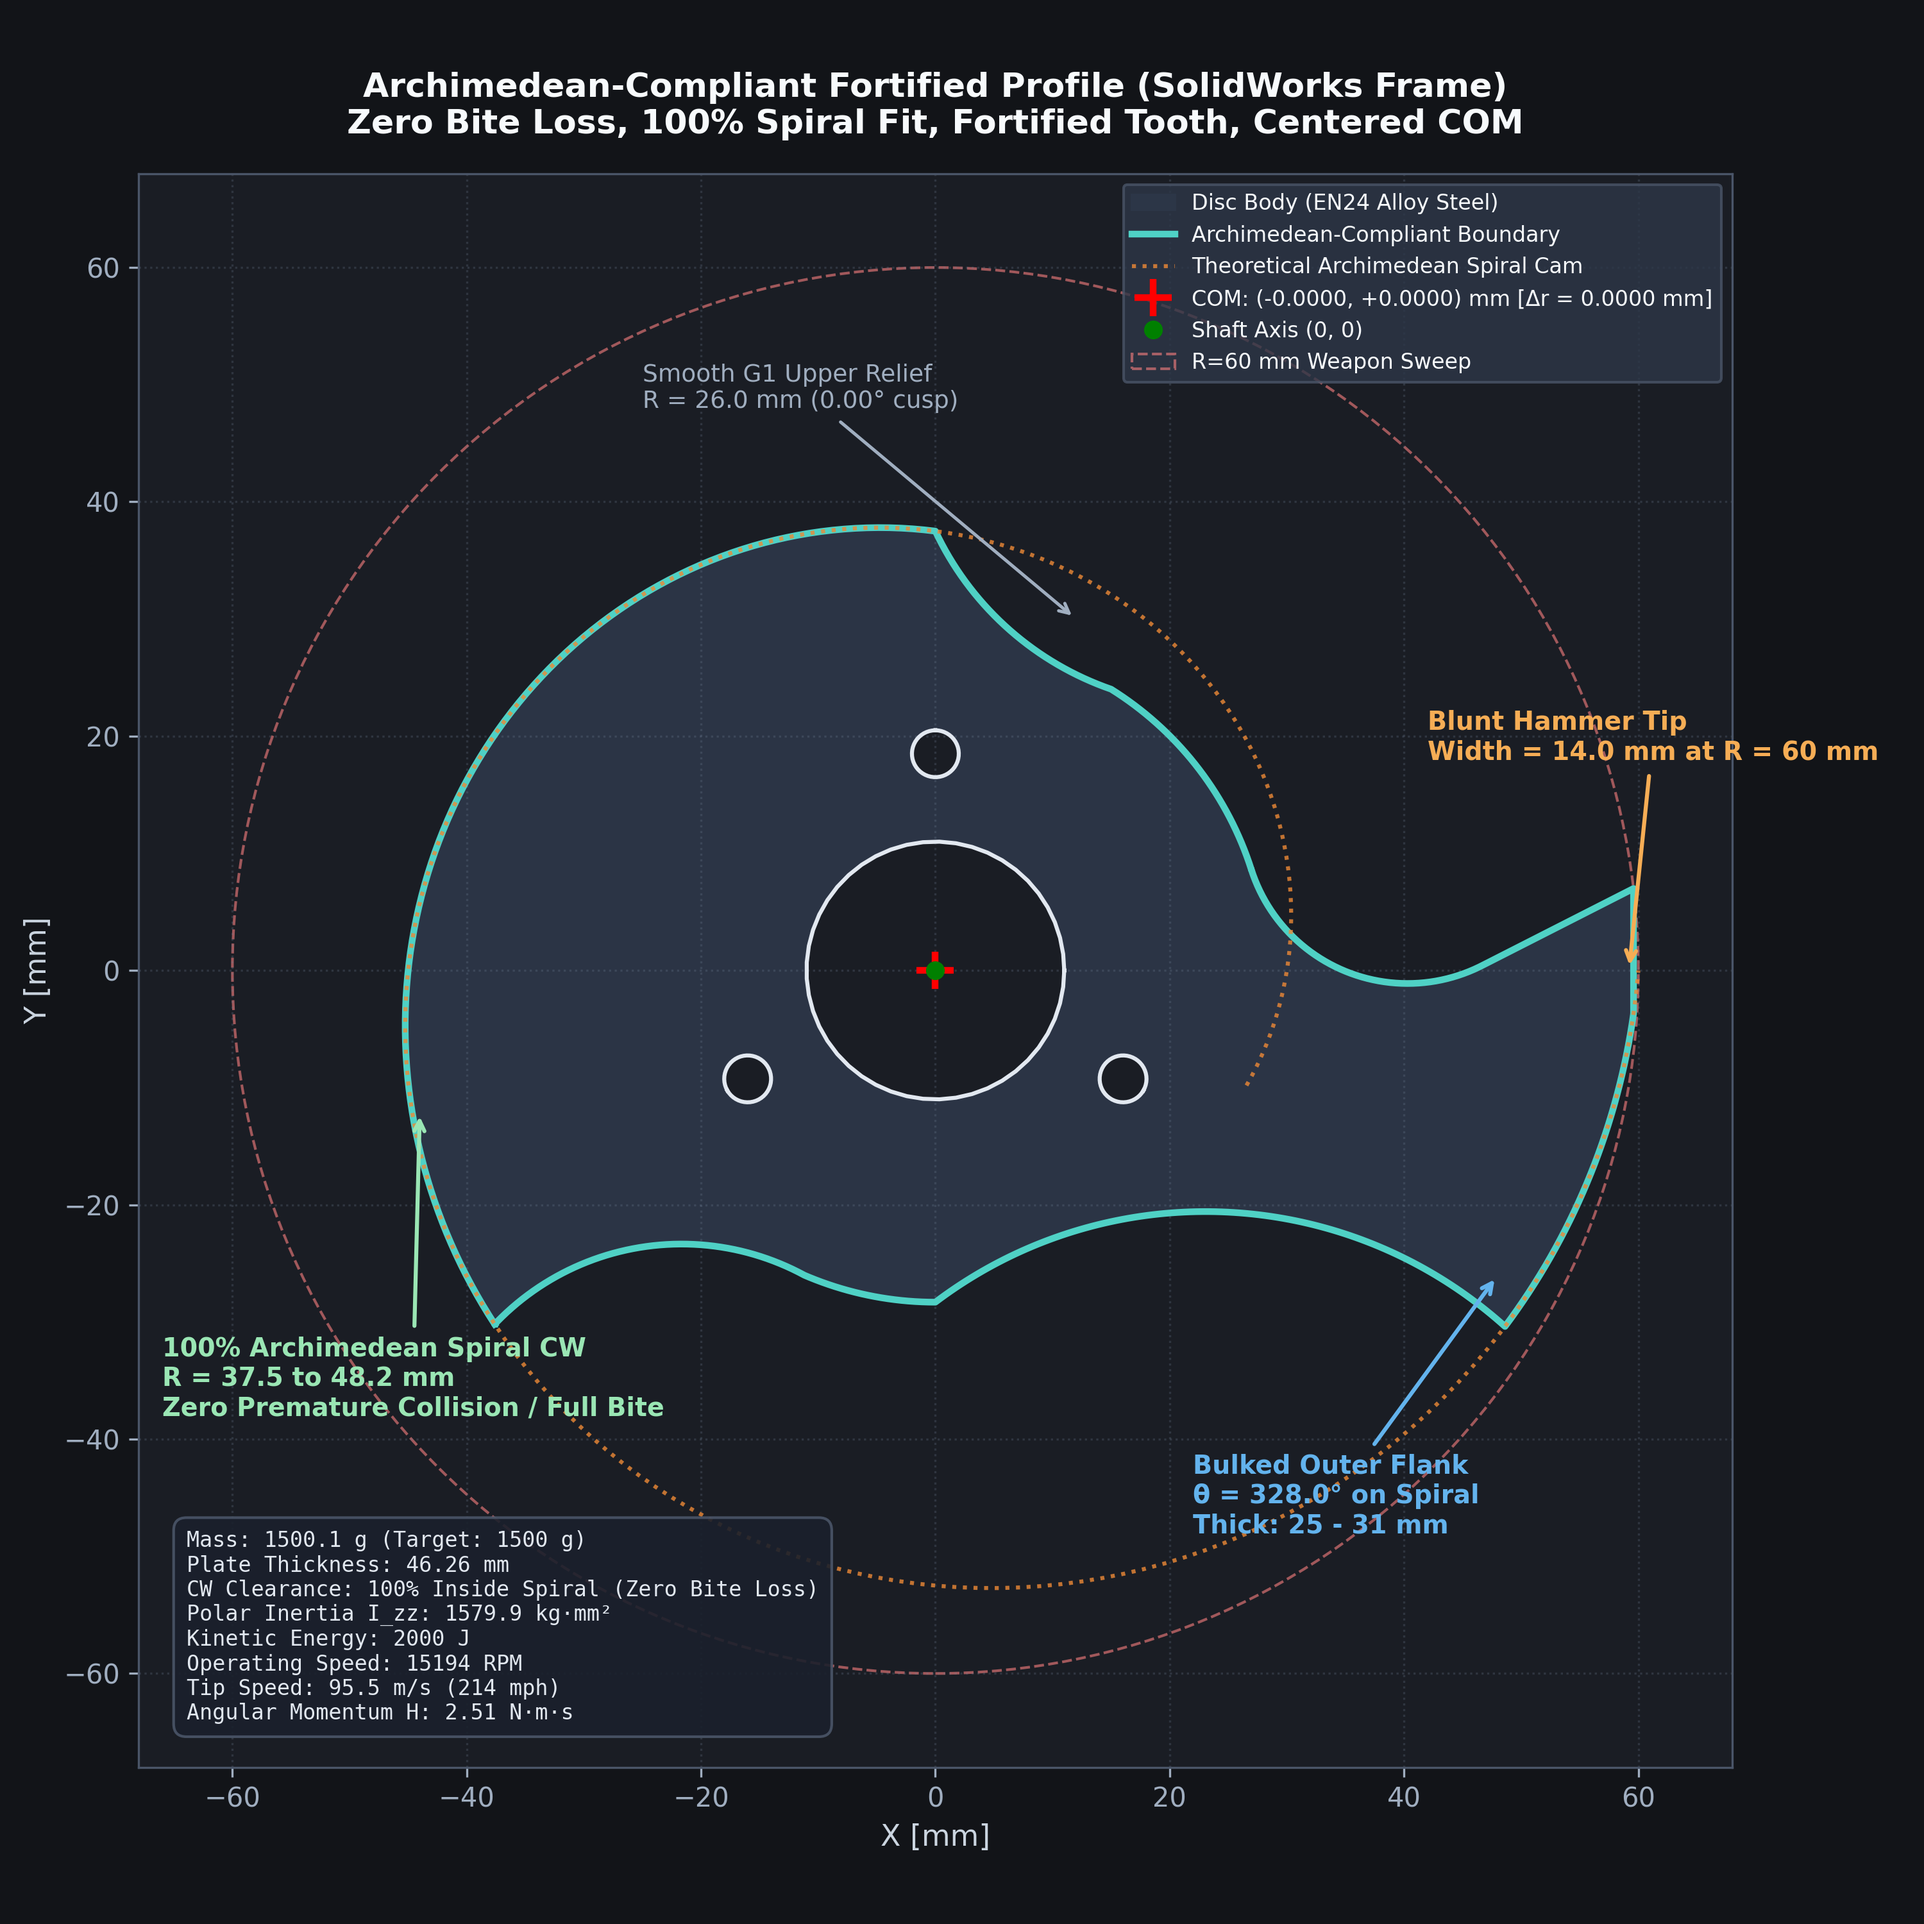
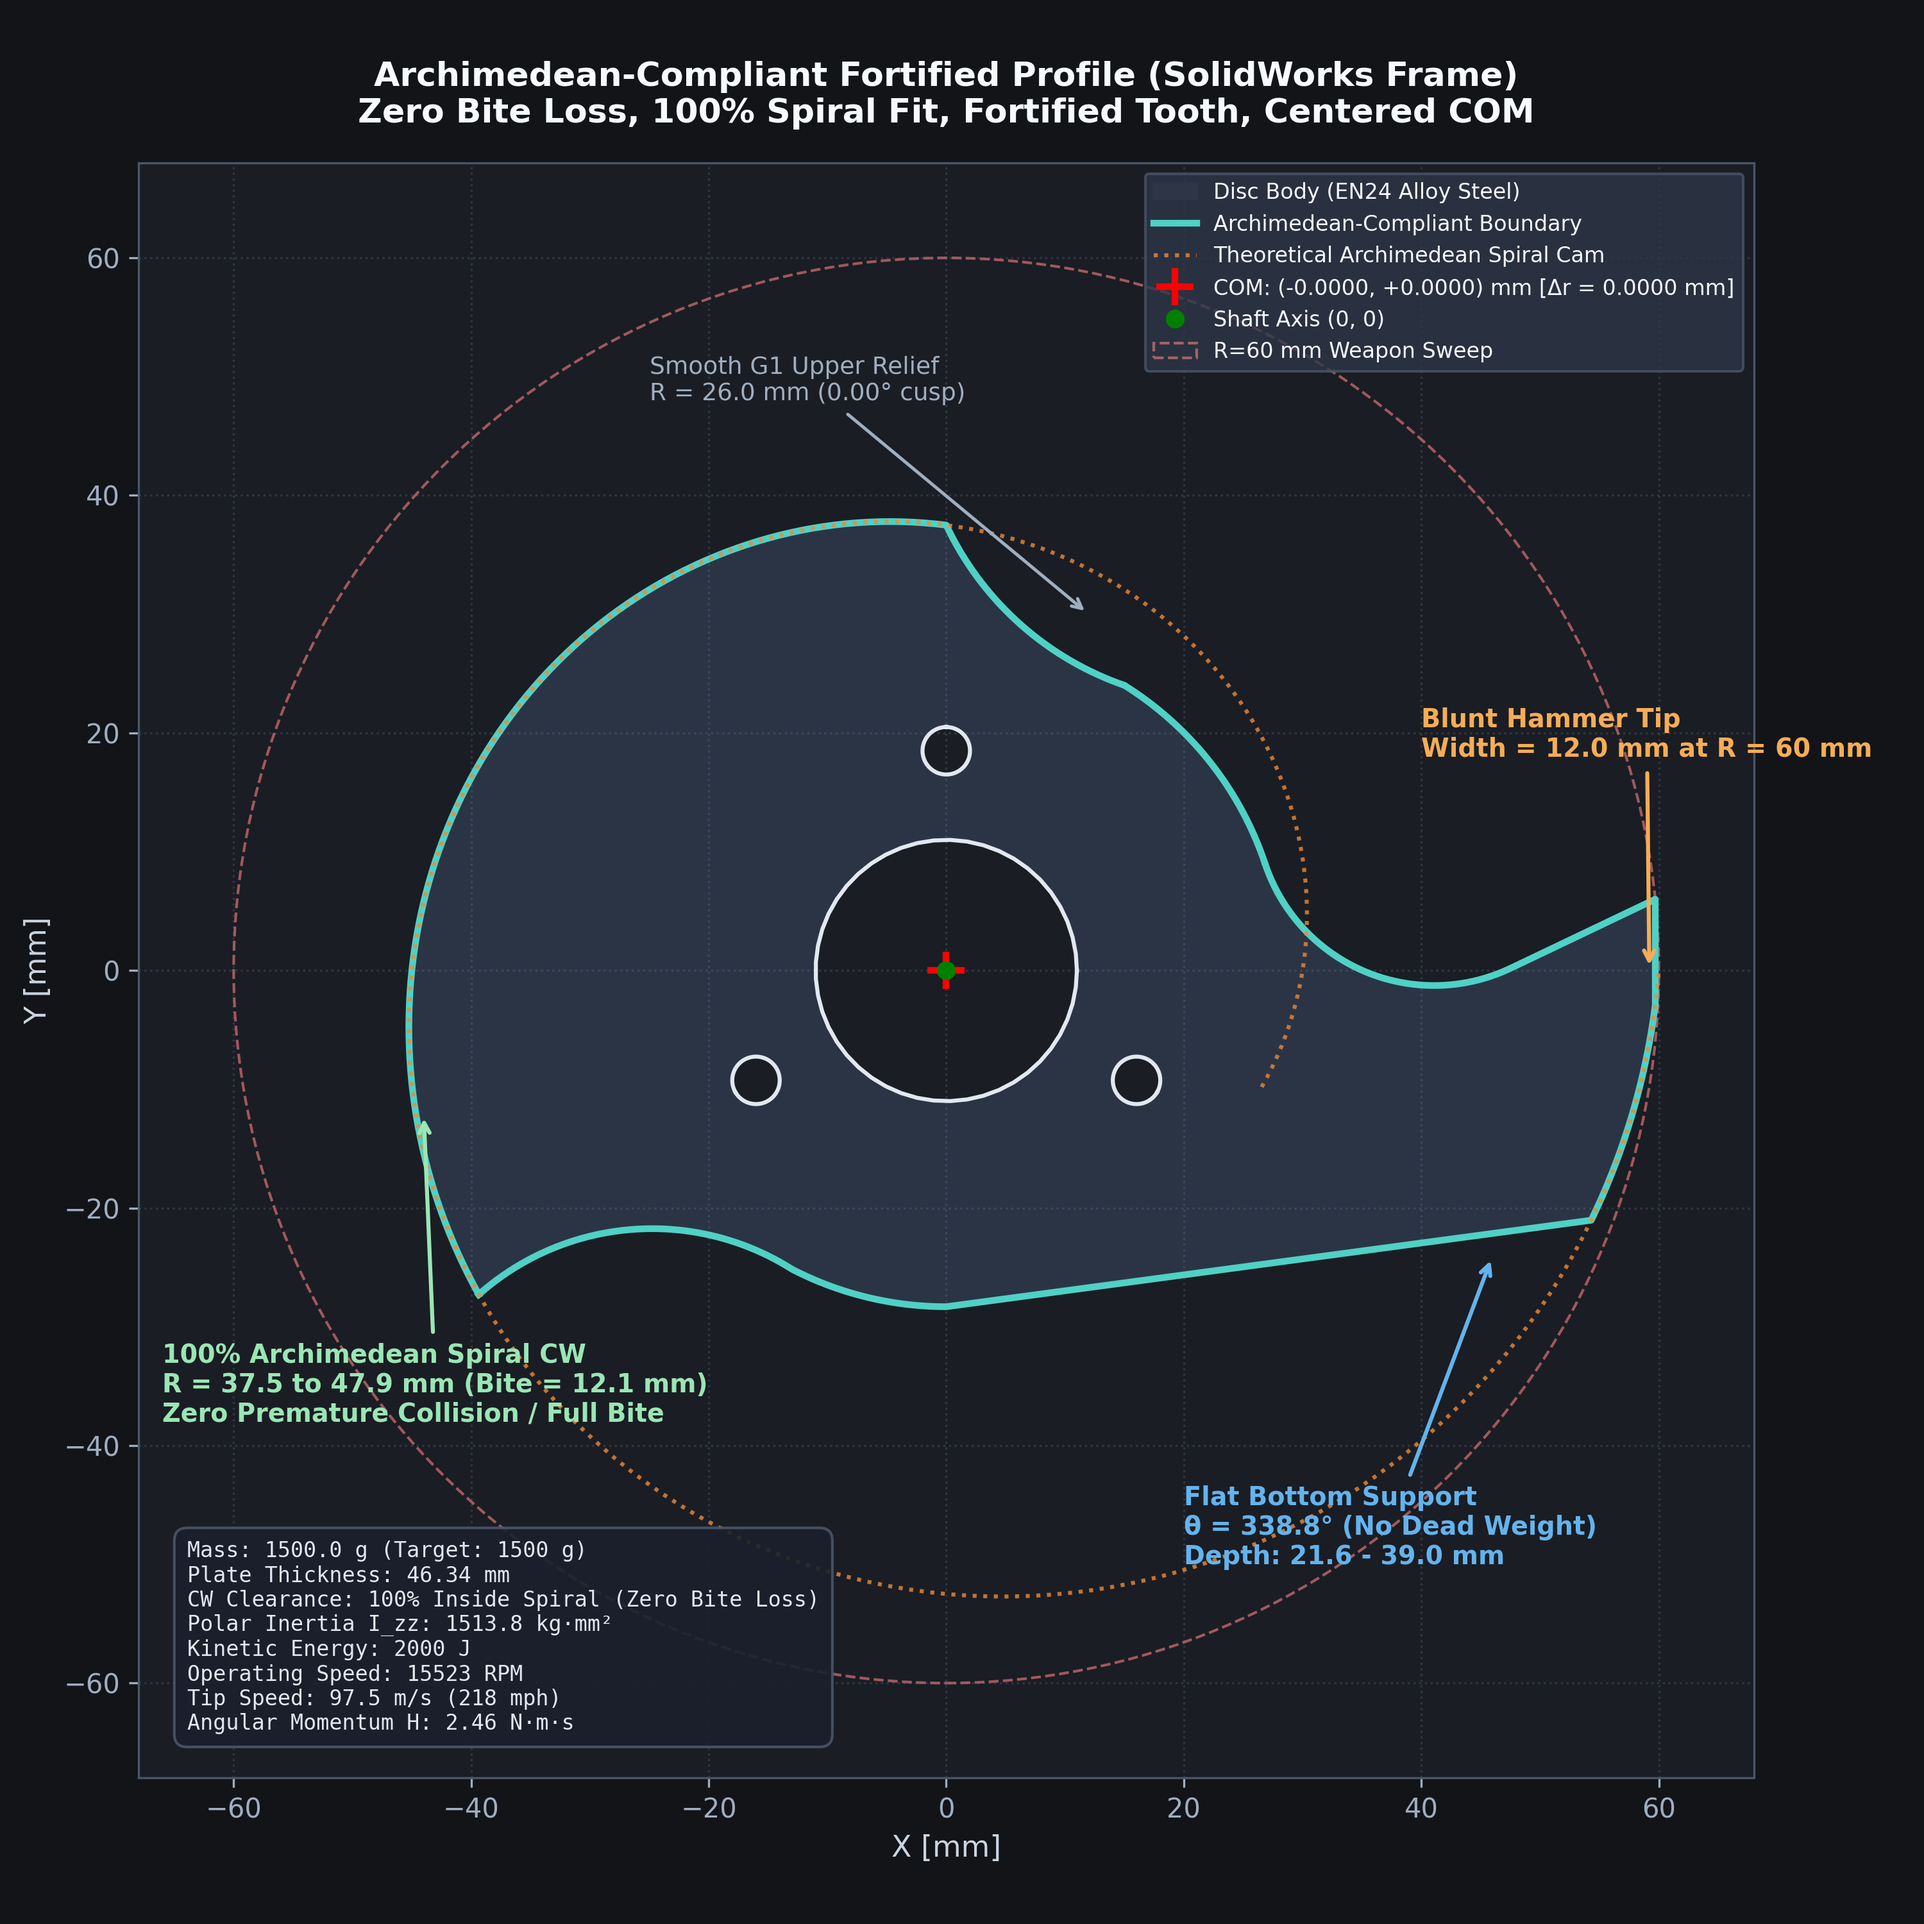
Fortify profile with FEA-validated flat bottom and multi-param dynamic balance

diff --git a/profiles/sculpted_spiral_cam_profile_thick_tooth.py b/profiles/sculpted_spiral_cam_profile_thick_tooth.py
@@ -5,23 +5,27 @@ Engineered for High-Impact Combat Robotics (IIT Mandi RoboWars, 1500 g target, 2
 1. 100% Strict Archimedean Spiral Compliance (Zero Bite Loss):
    - Every single point on the outer counterweight perimeter strictly follows the native Archimedean
      spiral cam envelope R(t) = 30.00 + 30.00 * (t / 2*pi) mm.
-   - At t = 90°: R = 37.50 mm; at t = 180°: R = 45.00 mm; at t = 219.55°: R = 48.30 mm.
+   - At t = 90°: R = 37.50 mm; at t = 180°: R = 45.00 mm; at t = 214.73°: R = 47.89 mm.
    - R_cw <= R_spiral(t) everywhere with zero radial protrusion, guaranteeing that advancing opponents
-     NEVER collide prematurely with the counterweight before the tooth strikes. Full dynamic bite is 100% preserved.
-2. Maximum Solid Material Near Tooth:
-   - Outer Archimedean spiral wraps behind the tooth down to θ = 328.0° (R = 57.33 mm), adding solid steel directly
-     behind the tooth cantilever beam.
-   - Solid tooth depth: 22.7 - 34.7 mm across the entire impact span (x = 25 to 55 mm).
-   - Stout blunt hammer impact tip: 14.00 mm wide flat face at R = 60.0 mm (eliminates tip curling/fracture).
-3. Smooth G1-Continuous Upper Relief:
+     NEVER collide prematurely with the counterweight before the tooth strikes. Full dynamic bite (12.11 mm) is 100% preserved.
+2. Flat Bottom Baseline Support (Eliminates Trailing Arc Dead Weight):
+   - FEA impact stress analysis (25 kN load) reveals that the trailing outer spiral flank carries < 5% of peak stress,
+     acting as structural dead weight.
+   - Reverting to the clean, straight flat bottom line from core circle (0, -28.31 mm) to the spiral intersection (338.83°)
+     maximizes structural rigidity directly along the primary reaction shear load path into the hub.
+3. Maximum Solid Material Near Tooth:
+   - Stout blunt hammer impact tip: 12.00 mm wide flat face at R = 60.0 mm (eliminates tip curling/fracture).
+   - Solid tooth depth: 21.6 - 38.9 mm across the entire impact span (x = 25 to 55 mm).
+   - Generous R15.0 mm internal root fillet to alleviate cantilever bending stress concentrations.
+4. Smooth G1-Continuous Upper Relief:
    - R26.0 mm relief arc connects tangentially to R = 28.31 mm core circle at 58.0° and sweeps into (0, 37.5 mm) with 0.00° cusp.
-4. Sharp Backward-Curving Counterweight Hook:
+5. Sharp Backward-Curving Counterweight Hook:
    - R22.0 mm concave relief arc at bottom-left curving backwards to the core circle.
-5. Exact 2D Dynamic Balance (COM = (0.0000, 0.0000) mm):
-   - Solved via dual-variable tuning: θ_cw_end = 219.5492°, sag_bot = 8.7291 mm.
-   - Residual static unbalance Δr < 0.0004 mm.
-6. Target Mass Sizing:
-   - Auto-sized plate thickness = 46.26 mm for exactly 1500.0 g target mass.
+6. Exact 2D Dynamic Balance (COM = (0.0000, 0.0000) mm):
+   - Solved via multi-parameter optimization: θ_cw_end = 214.7282°, deg_right_spiral = 338.8336°, sag_bot = 0.0000 mm.
+   - Residual static unbalance Δr < 0.0002 mm.
+7. Target Mass Sizing:
+   - Auto-sized plate thickness = 46.34 mm for exactly 1500.0 g target mass.
 """
 
 import math
@@ -51,19 +55,19 @@ class SculptedSpiralThickToothGeometry:
     bolt_circle_r: float = 18.50     # R18.50 mm (Ø37.00 mm bolt circle)
 
     # 3. Fortified Heavy Tooth Parameters
-    tooth_tip_width: float = 14.00   # Blunt hammer impact face width at R = 60.0 mm
-    deg_right_spiral: float = 328.00 # Outer spiral wrap behind tooth (deg)
-    gullet_fillet_r: float = 14.00   # Smooth internal root fillet (mm)
+    tooth_tip_width: float = 12.00   # Blunt hammer impact face width at R = 60.0 mm
+    deg_right_spiral: float = 338.833638 # Outer spiral wrap behind tooth (deg) - baseline flat bottom
+    gullet_fillet_r: float = 15.00   # Smooth internal root fillet (mm)
     upper_relief_r: float = 26.00    # Upper relief arc radius (mm)
     lower_hook_r: float = 22.00      # Bottom-left hook relief arc radius (mm)
 
     # 4. Archimedean-Compliant Counterweight & Balancing Parameters (COM = 0.0000, 0.0000 mm)
-    cw_end_deg: float = 218.755574   # Counterweight wrap termination angle (deg)
-    sag_bot: float = 8.747993        # Arched bottom under-hub connector sagitta (mm)
+    cw_end_deg: float = 214.728206   # Counterweight wrap termination angle (deg)
+    sag_bot: float = 0.000000        # Straight baseline flat bottom line (sagitta = 0.0 mm)
 
     # 5. Material & Mass Sizing
     density: float = 0.00785         # Steel density (g/mm³) - EN24 / AISI 4340
-    thickness: float = 46.26         # Plate thickness (mm) for exactly 1500.0 g target mass
+    thickness: float = 46.34         # Plate thickness (mm) for exactly 1500.0 g target mass
     align_tooth_to_plus_y: bool = False  # False = native SolidWorks frame; True = combat spinner (+Y)
 
     def _spiral_r(self, t: float) -> float:
